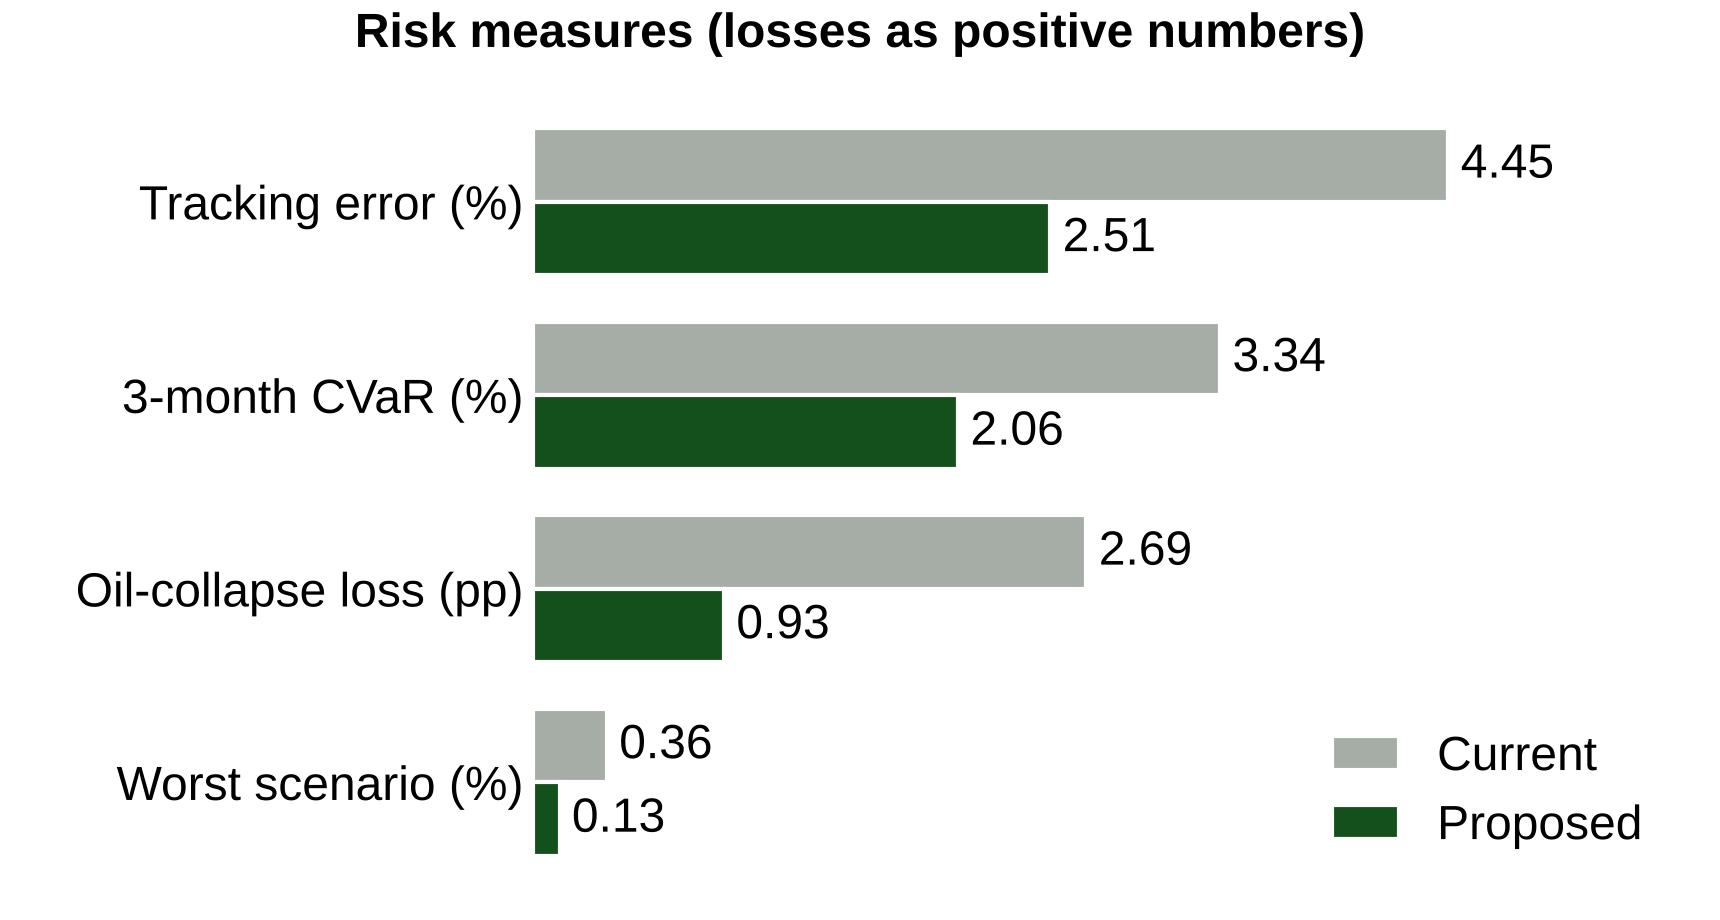
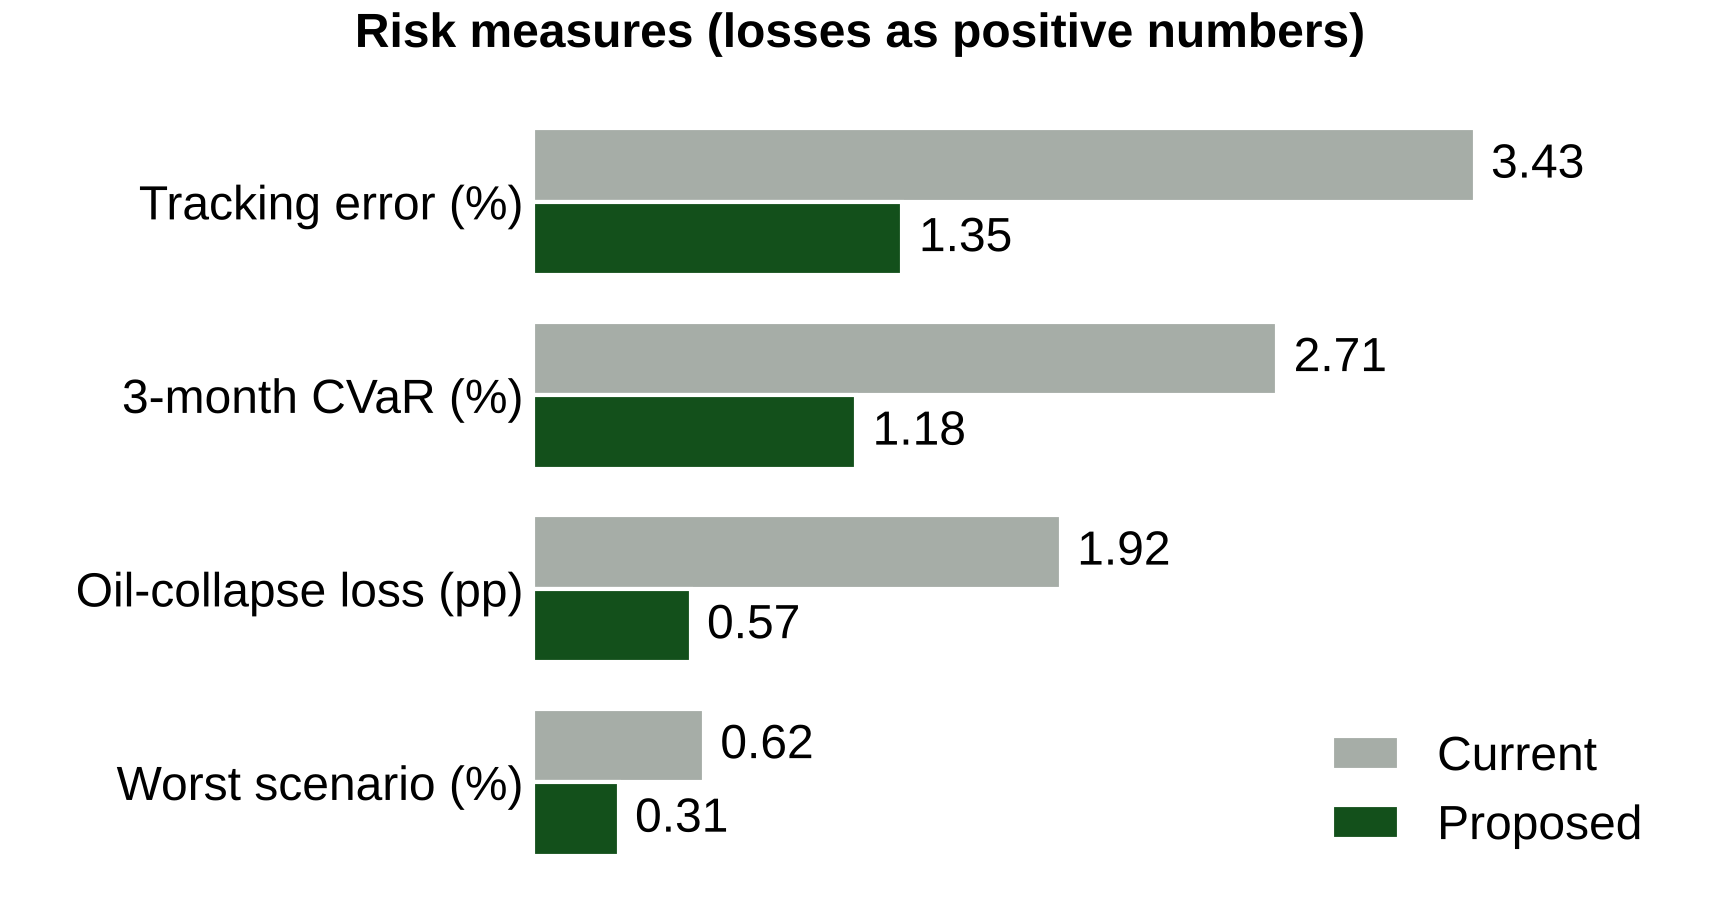
Team final weights vs S&P 500: evaluation module and deck charts
src/team_weights.py evaluates the team's final weights (5 Nov 2026, 60% equities / 40% fixed income)
against S&P 500 sector weights at the 4 Nov close: tracking error, CVaR, beta, sell-off payoff, scenario
payoffs, oil-collapse loss, Module 8 verdicts over 12 settings, and the Base-vs-Current checks (post hoc,
context only). deck_visuals.py draws the weights, risk and scenario charts from it and adds a
fixed-income mix chart.

Claude-Session: https://claude.ai/code/session_01XvrXAsh1HuWmDaJG6Ek6Ku

diff --git a/src/deck_visuals.py b/src/deck_visuals.py
@@ -14,6 +14,9 @@ installed), black text and axes, no gridlines, one text size. Every chart is siz
 same size as the slides' body text; titles are the same size in bold. Series colours: dark green #13501B,
 red #A82B0B, teal #104862, grey #A6ADA7.
 
+Portfolio weights are the team's final decision (5 Nov 2026), evaluated by src.team_weights against S&P 500
+sector weights at the 4 Nov close; equity weights are % of the 60% equity allocation.
+
 Conventions follow the models: DEF = XLP/XLU/XLV, GRW = VGT/XLY with XLK as the VGT proxy (the target
 series), legs equal-weighted, monthly total returns, month in progress dropped.
 """
@@ -90,9 +93,19 @@ def series(name):
     return pd.read_csv(RAW / f"{name}.csv", index_col=0, parse_dates=True).iloc[:, 0].dropna()
 
 
+# Team final weights (5 Nov 2026) vs S&P 500 sector weights (4 Nov), from `python -m src.team_weights`
+CUR, NEW = "Old (5 Nov)", "New (team)"
+FI_TYPES = {"Treasury and agency": ["VGIT", "AGZ"], "TIPS": ["IBID"], "Investment-grade corporate": ["IGSB", "VCSH"],
+            "Cash": ["Cash"]}
+
+
 def active_weights():
-    W = pd.read_csv(OUT / "weighting_weights.csv", index_col=0)
-    return W[["Current", "Base"]].sub(W["benchmark"], axis=0)
+    A = pd.read_csv(OUT / "team_weights_active.csv", index_col=0)
+    return A[[CUR, NEW]].rename(columns={CUR: "Current", NEW: "Base"})
+
+
+def team_metrics():
+    return pd.read_csv(OUT / "team_weights_metrics.csv", index_col=0)
 
 
 def hbar_labels(ax, y, vals, fmt=lambda v: pp(v), pad=0.25, **kw):
@@ -111,17 +124,17 @@ def date_axis(ax, months=(1, 7), fmt="%b %Y"):
 
 
 # ---- Proposal ----------------------------------------------------------------------------------------------
-def weights_active(w=820, h=708):
+def weights_active(w=700, h=708):
     A = active_weights().reindex(ORDER)
     fig, ax = figure(w, h)
     y = np.arange(len(A))[::-1]; hh = 0.38
     ax.barh(y + hh / 2, A["Current"], height=hh, color=GREY, edgecolor=BG, lw=1.5, label="Current")
     ax.barh(y - hh / 2, A["Base"], height=hh, color=GREEN, edgecolor=BG, lw=1.5, label="Proposed")
     ax.set_yticks(y, A.index); ax.axvline(0, color=INK, lw=1.2)
-    ax.set_xlim(-13.5, 8.5); ax.set_xlabel("Active weight vs IVV (pp)")
+    ax.set_xlim(-10.5, 6); ax.set_xlabel("Active weight vs S&P 500 (pp)")
     bars_frame(ax); ax.legend(loc="lower left")
-    title(fig, "Active weights: current vs proposed")
-    fig.subplots_adjust(left=0.1, right=0.97, bottom=0.1)
+    title(fig, "Equity active weights: current vs proposed")
+    fig.subplots_adjust(left=0.13, right=0.97, bottom=0.1)
     save(fig, "deck_weights_active.png")
     return A
 
@@ -159,17 +172,21 @@ def performance():
 
 
 def active_current():
-    A = active_weights()["Current"].reindex(ORDER)
+    A = active_weights()["Current"].rename({"CASH": "Cash"}).reindex(ORDER + ["Cash"])
+    A["Cash"] = np.floor(A["Cash"] * 10 + 1e-6) / 10      # 100 - 96.55: shown as 3.4 so it matches 96.6 + 3.4 = 100
     fig, ax = figure(1100, 708)
     y = np.arange(len(A))[::-1]
-    ax.barh(y, A.values, height=0.62, color=[GROUP_COLOR.get(t, GREY) for t in A.index], edgecolor=BG, lw=2)
+    cols = [GROUP_COLOR.get(t, GREY) for t in A.index]; cols[-1] = "#FFFFFF"
+    ax.barh(y, A.values, height=0.62, color=cols, edgecolor=[BG] * (len(A) - 1) + [INK], lw=2,
+            hatch=[None] * (len(A) - 1) + ["//"])
     hbar_labels(ax, y, A.values)
     ax.set_yticks(y, A.index); ax.axvline(0, color=INK, lw=1.2)
-    ax.set_xlim(-15, 9.5); ax.set_xlabel("Active weight vs IVV (pp)")
+    ax.set_xlim(-11.5, 7.5); ax.set_xlabel("Active weight vs S&P 500 (pp of the 60% equity allocation)")
     bars_frame(ax)
     handles = [plt.Rectangle((0, 0), 1, 1, color=c) for c in (RED, GREY, TEAL, GREEN)]
-    ax.legend(handles, ["Growth", "Other", "Inflation hedge", "Defensives"], loc="lower left")
-    title(fig, "Current active weights by ETF (31 Oct)")
+    handles.append(plt.Rectangle((0, 0), 1, 1, facecolor="#FFFFFF", edgecolor=INK, hatch="//"))
+    ax.legend(handles, ["Growth", "Other", "Inflation hedge", "Defensives", "Equities below 60%"], loc="lower left")
+    title(fig, "Current equity active weights by ETF (5 Nov)")
     fig.subplots_adjust(left=0.075, right=0.98, bottom=0.1)
     save(fig, "deck_active_current.png")
 
@@ -419,22 +436,22 @@ def valuation_revisions(w=700, h=708):
 def oil_collapse_loss(w=900, h=490):
     S = pd.read_csv(OUT / "energy_stress.csv", index_col=0)
     glut = S.loc[[i for i in S.index if i.startswith("Oil glut")][0], "XLE minus SPY (%)"] / 100
-    C = pd.read_csv(OUT / "consistency_summary.csv", index_col=0)
-    marks = [("Current", "Current (drifted)", GREY, (-0.15, -0.15, "right", "top")),
-             ("Team proposal", "Proposal", GREY, (0.15, 0.12, "left", "bottom")),
-             ("Full hedge", "Base (full hedge, post hoc)", GREY, (-0.15, -0.15, "right", "top")),
-             ("Recommended", "Base (half hedge)", GREEN, (-0.2, -0.17, "right", "top"))]
-    marks = [(lab, C.loc[k, "xle_active"], C.loc[k, "oil_crash_tail_pp"], c, pos) for lab, k, c, pos in marks]
-    x = np.linspace(0, 7.5, 100)
+    M, A = team_metrics(), pd.read_csv(OUT / "team_weights_active.csv", index_col=0)
+    marks = [("Current", CUR, GREY, (-0.12, -0.12, "right", "top")),
+             ("Model Base", "Model Base", GREY, (-0.15, -0.1, "right", "top")),
+             ("Full hedge", "New, full hedge", GREY, (-0.15, -0.12, "right", "top")),
+             ("Proposed", NEW, GREEN, (0.15, 0.1, "left", "bottom"))]
+    marks = [(lab, A.loc["XLE", k], M.loc[k, "oil_loss"], c, pos) for lab, k, c, pos in marks]
+    x = np.linspace(0, 6, 100)
     fig, ax = figure(w, h)
     ax.axhspan(-1, 0, color=LIGHT, alpha=0.25, lw=0)
     ax.plot(x, glut * x, color=INK, lw=2)
     ax.axhline(-1, color=RED, lw=2, ls=(0, (5, 3)))
-    ax.text(7.45, -0.9, "Limit −1pp", color=INK, fontsize=FS, ha="right", va="bottom", **BOLD)
+    ax.text(5.95, -0.9, "Limit −1pp", color=INK, fontsize=FS, ha="right", va="bottom", **BOLD)
     for lab, wv, y, c, (dx, dy, ha, va) in marks:
         ax.plot(wv, y, "o", ms=11, color=c, mec=INK if c == GREY else BG, mew=1.5 if c == GREY else 2, zorder=3)
-        ax.text(wv + dx, y + dy, lab, fontsize=FS, ha=ha, va=va, **(BOLD if lab == "Recommended" else {}))
-    ax.set_xlim(0, 7.5); ax.set_ylim(-3.6, 0.3)
+        ax.text(wv + dx, y + dy, lab, fontsize=FS, ha=ha, va=va, **(BOLD if lab == "Proposed" else {}))
+    ax.set_xlim(0, 6); ax.set_ylim(-2.6, 0.3)
     ax.set_xlabel("XLE active weight (pp)"); ax.set_ylabel("Loss (pp)")
     title(fig, "Loss in a 2014–16 oil collapse, by XLE weight")
     fig.subplots_adjust(left=0.1, right=0.98, bottom=0.15)
@@ -444,13 +461,12 @@ def oil_collapse_loss(w=900, h=490):
 
 # ---- Risks -------------------------------------------------------------------------------------------------
 def risk_metrics(w=860, h=460):
-    M = pd.read_csv(OUT / "weighting_metrics.csv", index_col=0)
-    C = pd.read_csv(OUT / "consistency_summary.csv", index_col=0)
-    P = pd.read_csv(OUT / "consistency_scenario_payoffs.csv", index_col=0)
-    rows = [("Tracking error (%)", M.loc["Current", "te_bench"], M.loc["Base", "te_bench"]),
-            ("3-month CVaR (%)", M.loc["Current", "cvar3"], M.loc["Base", "cvar3"]),
-            ("Oil-collapse loss (pp)", -C.loc["Current (drifted)", "oil_crash_tail_pp"], -C.loc["Base (half hedge)", "oil_crash_tail_pp"]),
-            ("Worst scenario (%)", -P["Current (drifted)"].min(), -P["Base (half hedge)"].min())]
+    M = team_metrics()
+    worst = lambda k: -M.loc[k, [c for c in M.columns if c.startswith("scen_")]].min()
+    rows = [("Tracking error (%)", M.loc[CUR, "te_bench"], M.loc[NEW, "te_bench"]),
+            ("3-month CVaR (%)", M.loc[CUR, "cvar3"], M.loc[NEW, "cvar3"]),
+            ("Oil-collapse loss (pp)", -M.loc[CUR, "oil_loss"], -M.loc[NEW, "oil_loss"]),
+            ("Worst scenario (%)", worst(CUR), worst(NEW))]
     fig, ax = figure(w, h)
     y = np.arange(len(rows))[::-1]; hh = 0.38
     cur = [r[1] for r in rows]; new = [r[2] for r in rows]
@@ -460,7 +476,7 @@ def risk_metrics(w=860, h=460):
         for yi, v in zip(yy, vals):
             ax.text(v + 0.06, yi, f"{v:.2f}", va="center", fontsize=FS)
     ax.set_yticks(y, [r[0] for r in rows])
-    ax.set_xlim(0, 5.6); ax.set_xticks([])
+    ax.set_xlim(0, 4.2); ax.set_xticks([])
     ax.spines["bottom"].set_visible(False); bars_frame(ax)
     ax.legend(loc="lower right")
     title(fig, "Risk measures (losses as positive numbers)")
@@ -470,7 +486,8 @@ def risk_metrics(w=860, h=460):
 
 
 def scenario_returns(w=700, h=708):
-    P = pd.read_csv(OUT / "consistency_scenario_payoffs.csv", index_col=0)[["Current (drifted)", "Base (half hedge)"]]
+    M = team_metrics()
+    P = M[[c for c in M.columns if c.startswith("scen_")]].T.rename(index=lambda c: c[5:])[[CUR, NEW]]
     names = {"Stagflationary sell-off": "Stagflation\nsell-off", "Real-yield squeeze": "Real-yield\nsqueeze",
              "Growth scare": "Growth\nscare", "Inflation scare": "Inflation\nscare", "Easing rally": "Easing\nrally",
              "Steady state": "Steady\nstate"}
@@ -481,13 +498,33 @@ def scenario_returns(w=700, h=708):
     for yy, c in ((y + hh / 2, 0), (y - hh / 2, 1)):
         hbar_labels(ax, yy, P.iloc[:, c].values, fmt=lambda v: pp(v, 2), pad=0.04)
     ax.set_yticks(y, [names.get(s, s) for s in P.index]); ax.axvline(0, color=INK, lw=1.2)
-    ax.set_xlim(-0.9, 1.75); ax.set_xticks([-0.5, 0, 0.5, 1.0, 1.5])
-    ax.set_xlabel("Active return vs SPY, 3 months (%)")
+    ax.set_xlim(-1.2, 1.85); ax.set_xticks([-0.5, 0, 0.5, 1.0, 1.5])
+    ax.set_xlabel("Active return vs S&P 500, 3 months (%)")
     bars_frame(ax); ax.legend(loc="lower right")
     title(fig, "Average 3-month return by scenario")
     fig.subplots_adjust(left=0.22, right=0.97, bottom=0.1)
     save(fig, "deck_scenario_returns.png")
     return P
+
+
+def fixed_income_mix(w=700, h=440):
+    from src.team_weights import TEAM
+    T = pd.DataFrame({k: TEAM.loc[v].sum() for k, v in FI_TYPES.items()}).T[["old", "new"]]
+    fig, ax = figure(w, h)
+    y = np.arange(len(T))[::-1]; hh = 0.38
+    ax.barh(y + hh / 2, T["old"], height=hh, color=GREY, edgecolor=BG, lw=1.5, label="Current")
+    ax.barh(y - hh / 2, T["new"], height=hh, color=GREEN, edgecolor=BG, lw=1.5, label="Proposed")
+    for yy, c in ((y + hh / 2, "old"), (y - hh / 2, "new")):
+        for yi, v in zip(yy, T[c]):
+            ax.text(v + 0.3, yi, f"{v:.1f}", va="center", fontsize=FS)
+    ax.set_yticks(y, ["Treasury\nand agency", "TIPS", "IG\ncorporate", "Cash"])
+    ax.set_xlim(0, 27); ax.set_xticks([])
+    ax.spines["bottom"].set_visible(False); bars_frame(ax)
+    ax.legend(loc="lower right")
+    title(fig, "Fixed income by type (% of portfolio)")
+    fig.subplots_adjust(left=0.2, right=0.98, bottom=0.03)
+    save(fig, "deck_fixed_income_mix.png")
+    return T
 
 
 def trigger_readings(w=700, h=708):
@@ -527,7 +564,7 @@ def main():
     ff, t2, gap = fed_expected(); last, s1, s2 = curve(); ry = real_yields()
     w = wti(); prem, med = pe_premium(); s, oct_ = def_minus_grw()
     decomposition(); valuation_revisions(); glut, marks = oil_collapse_loss()
-    rows = risk_metrics(); scenario_returns(); trigger_readings()
+    rows = risk_metrics(); scenario_returns(); trigger_readings(); fixed_income_mix()
     print("\nNumbers drawn (check against the deck):")
     print("  Performance Jun–Oct (%): " + ", ".join(f"{k} {v:+.2f}" for k, v in C.iloc[-1].items()))
     print("  Active return by group vs sector benchmark (pp): " + ", ".join(f"{k} {v:+.2f}" for k, v in groups.items()))

diff --git a/src/team_weights.py b/src/team_weights.py
@@ -1,0 +1,201 @@
+"""Team final weights (decided 5 Nov 2026) evaluated against today's S&P 500 sector weights.
+
+Run:
+    python -m src.team_weights
+
+POST HOC: the team set these weights after seeing the engine's Base result. They follow the direction of Base
+(smaller growth underweight, smaller energy overweight) with team modifications. This module reports the same
+risk measures and the same five Base-vs-Current checks for context; it is not a pre-registered verdict.
+
+Conventions
+- Portfolio: 60% equities, 40% fixed income and cash. Equity weights = portfolio weight x 100/60.
+- The November ("old") equity sleeve was 57.93% of the portfolio, so its equity weights sum to 96.55%. The
+  2.07pp of the portfolio held outside equities relative to the 60% allocation is treated as cash (zero return)
+  in the equity-sleeve measures, so the measures match the weights shown on the slides.
+- Benchmark: S&P 500 GICS sector weights at the 4 Nov 2026 close (ChartRow estimate from SPY holdings,
+  normalized from 100.3% to 100%), mapped to the eleven sector ETFs.
+"""
+import numpy as np
+import pandas as pd
+import statsmodels.api as sm
+from pathlib import Path
+
+from src.portfolio import etf_returns, etf_sensitivities, HOLDINGS, load_portfolio
+from src.policy import build_state
+from src.scenarios import build, summarize, verdict, SCEN, SETS, H
+from src.consistency import M8_SPECS
+from src.energy import stress
+from src import weighting as wg
+
+OUT = Path("outputs")
+EQ = 100 / 60
+CASH = "CASH"
+
+# % of the $100M portfolio (team decision, 5 Nov 2026)
+TEAM = pd.DataFrame({
+    "old": {"VGT": 16.47, "XLV": 6.59, "XLC": 4.48, "XLF": 6.12, "XLP": 6.08, "XLY": 3.70, "XLB": 3.70, "XLI": 3.24,
+            "XLE": 4.99, "SCHH": 1.14, "XLU": 1.42, "IGSB": 3.00, "IBID": 9.00, "AGZ": 9.00, "VGIT": 13.50,
+            "Cash": 4.57, "VCSH": 3.00},
+    "new": {"VGT": 19.50, "XLV": 7.00, "XLC": 5.50, "XLF": 6.00, "XLP": 4.00, "XLY": 5.00, "XLB": 2.00, "XLI": 4.00,
+            "XLE": 3.00, "SCHH": 2.50, "XLU": 1.50, "IGSB": 14.36, "IBID": 6.76, "AGZ": 8.09, "VGIT": 6.79,
+            "Cash": 4.00, "VCSH": 0.00}})
+FI = ["IGSB", "IBID", "AGZ", "VGIT", "VCSH", "Cash"]
+
+# S&P 500 sector weights, 4 Nov 2026 close (ChartRow, SPY holdings), by ETF proxy
+SP500_RAW = {"VGT": 36.9, "XLF": 12.6, "XLV": 10.3, "XLY": 9.7, "XLC": 8.5, "XLI": 8.2, "XLP": 4.9, "XLE": 3.6,
+             "XLU": 2.1, "SCHH": 1.8, "XLB": 1.7}
+
+
+def benchmark():
+    b = pd.Series(SP500_RAW).reindex(HOLDINGS)
+    b = (b / b.sum() * 100).round(2)
+    b["VGT"] += round(100 - b.sum(), 2)
+    return b
+
+
+def equity(col):
+    w = (TEAM.loc[HOLDINGS, col] * EQ)
+    return pd.concat([w, pd.Series({CASH: 100 - w.sum()})])
+
+
+# ------------------------------------------------------------------ returns with a cash leg
+def frame(R):
+    X = R[HOLDINGS].copy()
+    X["XLC"] = X["XLC"].fillna(R["SPY"])
+    X = X.where(R[[h for h in HOLDINGS if h != "XLC"]].notna().all(axis=1))
+    X[CASH] = 0.0
+    return X
+
+
+def port(X, w):
+    return (X[w.index] * (w / 100)).sum(axis=1, min_count=1).where(X[HOLDINGS].notna().all(axis=1))
+
+
+def fwd(x):
+    return ((1 + x / 100).rolling(H).apply(np.prod, raw=True) - 1).shift(-H) * 100
+
+
+def spy_sens(R, S):
+    dX = S[["real10y", "breakeven10y"]].diff()
+    row = {"beta": 0.0}
+    for tag, start, drop22 in [("full", "2003-02-28", False), ("post", "2020-01-01", False), ("ex22", "2020-01-01", True)]:
+        dd = pd.concat([R["SPY"].rename("y"), dX], axis=1, sort=True).loc[start:].dropna()
+        if drop22:
+            dd = dd.drop(dd.loc["2022"].index)
+        res = sm.OLS(dd["y"].values, sm.add_constant(dd[["real10y", "breakeven10y"]].values)).fit()
+        row[f"real_{tag}"], row[f"be_{tag}"] = -res.params[1], -res.params[2]   # cash minus SPY
+    return pd.Series(row, name=CASH)
+
+
+def payoffs_cash(X, R, W, lab, Wts, sens, tag):
+    """Module 8 payoffs vs SPY (scenarios.payoffs) for weight vectors that may include a cash leg."""
+    med = W.groupby(lab)[["d_real", "d_be", "spy"]].median().reindex(SCEN)
+    emp, mod, neg = {}, {}, {}
+    for name, w in Wts.items():
+        a = (fwd(port(X, w)) - fwd(R["SPY"])).reindex(W.index)
+        emp[name] = a.groupby(lab).mean().reindex(SCEN)
+        neg[name] = (a < 0).groupby(lab).mean().reindex(SCEN)
+        x = w / 100
+        s = sens.reindex(w.index)
+        mod[name] = pd.Series({k: float((x * (s[f"real_{tag}"] * med.loc[k, "d_real"] / 100
+                                           + s[f"be_{tag}"] * med.loc[k, "d_be"] / 100
+                                           + (s["beta"] - 1) * med.loc[k, "spy"])).sum()) for k in SCEN})
+    return pd.DataFrame(emp), pd.DataFrame(mod), pd.DataFrame(neg)
+
+
+# ------------------------------------------------------------------ metrics
+def metrics(name, w, b, X, R, C, sens, sc):
+    bb = pd.concat([b, pd.Series({CASH: 0.0})])
+    x = w.reindex(bb.index).fillna(0) - bb
+    last = R.index[-wg.WINDOW:]
+    p = port(X, w)
+    beta = float(np.polyfit(R["SPY"].loc[last], p.loc[last], 1)[0])
+    act = (p - port(X, bb)).dropna()
+    a3 = act.rolling(3).sum().dropna()
+    var3 = -np.percentile(a3, 5)
+    cvar3 = -a3[a3 <= -var3].mean()
+    xv = (x / 100).reindex(C.index).values
+    tev = float(np.sqrt(12 * xv @ C.values @ xv))
+    rc = pd.Series(xv * (C.values @ xv) / (xv @ C.values @ xv) * 100, index=C.index)
+    Wn, lab, P = sc["W"], sc["lab"], sc["P"]
+    pay = (fwd(p) - fwd(port(X, bb))).reindex(Wn.index)
+    by = pay.groupby(lab).mean().reindex(SCEN).fillna(0)
+    ev = {f"exp_{k.split()[0]}": float(P[k] @ by) for k in SETS}
+    s = sens.reindex(x.index)
+    st, _, _ = stress(R, float(x["XLE"]))
+    m = dict(portfolio=name, te_bench=tev, beta=beta, cvar3=cvar3,
+             be_25bp=float((x / 100 * s["be_full"] / 4).sum()),
+             selloff_3m=float(pay[lab.isin(SCEN[:2])].mean()), **ev,
+             oil_loss=float(st["cost of today's overweight (pp)"].min()), gross_active=float(x.abs().sum() / 2),
+             **{f"scen_{k}": float(by[k]) for k in SCEN})
+    m.update({f"risk_{g}": float(rc[c].sum()) for g, c in wg.GROUPS.items()})
+    m.update({f"act_{g}": float(x[c].sum()) for g, c in wg.GROUPS.items()})
+    m["act_Cash"] = float(x[CASH])
+    return m, x
+
+
+def main():
+    pd.set_option("display.width", 250); pd.set_option("display.max_columns", 40)
+    R = etf_returns(); S = build_state(); sens = etf_sensitivities(R, S)
+    sens = pd.concat([sens, spy_sens(R, S).to_frame().T])
+    X = frame(R)
+    Cm = X[HOLDINGS + [CASH]].loc[R.index[-wg.WINDOW:]].cov()
+    b = benchmark()
+    sc = build()
+    base = pd.read_csv(OUT / "weighting_weights.csv", index_col=0)["Base"].reindex(HOLDINGS)
+    Wt = {"Old (5 Nov)": equity("old"), "New (team)": equity("new"),
+          "Model Base": pd.concat([base, pd.Series({CASH: 0.0})])}
+
+    # full hedge for the team weights: add the engine's inflation unit bet until breakeven beta is zero
+    v2 = wg.unit_bet(b, long=wg.INF)
+    xn = Wt["New (team)"].reindex(HOLDINGS) - b
+    h = -wg.be_beta(xn, sens.loc[HOLDINGS]) / wg.be_beta(v2, sens.loc[HOLDINGS])
+    full = (b + xn + h * v2).round(2)
+    Wt["New, full hedge"] = pd.concat([full, pd.Series({CASH: 0.0})])
+
+    rows, A = [], {}
+    for n, w in Wt.items():
+        m, x = metrics(n, w, b, X, R, Cm, sens, sc)
+        rows.append(m); A[n] = x
+    M = pd.DataFrame(rows).set_index("portfolio")
+    A = pd.DataFrame(A)
+
+    print("Benchmark (S&P 500 sector weights, 4 Nov 2026):\n", b.to_string())
+    print("\nEquity weights (% of equities):\n", pd.DataFrame(Wt).round(2).assign(bench=b).to_string())
+    print("\nActive weights vs S&P 500 (pp of equities):\n", A.round(2).to_string())
+    print(f"\nFull hedge for the team weights: inflation unit bet x {h:.2f}")
+    print("\nMetrics:\n", M.round(3).T.to_string())
+
+    o, n = M.loc["Old (5 Nov)"], M.loc["New (team)"]
+    checks = pd.DataFrame([
+        ("1 TE vs benchmark below Old", f"{n['te_bench']:.2f}% vs {o['te_bench']:.2f}%", n["te_bench"] < o["te_bench"]),
+        ("2 Sell-off payoff >= 75% of Old", f"{n['selloff_3m']:+.2f}% vs {o['selloff_3m']:+.2f}%", n["selloff_3m"] >= 0.75 * o["selloff_3m"]),
+        ("3 |breakeven beta| below Old", f"{n['be_25bp']:+.3f} vs {o['be_25bp']:+.3f}", abs(n["be_25bp"]) < abs(o["be_25bp"])),
+        ("4 Expected (set A) within 0.10pp of Old", f"{n['exp_A']:+.3f} vs {o['exp_A']:+.3f}", n["exp_A"] >= o["exp_A"] - 0.10)],
+        columns=["check", "value", "pass"])
+    print("\nBase-vs-Current checks applied to New vs Old (context, post hoc):\n", checks.to_string(index=False))
+
+    # Module 8 decision rule vs Old, 12 settings
+    sens_x = sens
+    res = {k: [] for k in Wt if k != "Old (5 Nov)"}
+    wins = {k: [] for k in res}
+    for prm in M8_SPECS:
+        bb = build(prm)
+        E, Mm, NEG = payoffs_cash(X, R, bb["W"], bb["lab"], Wt, sens_x, bb["p"]["model_tag"])
+        T = summarize(bb["P"], E, Mm, NEG)
+        for k in res:
+            v, wn, _ = verdict(T, k, ref="Old (5 Nov)")
+            res[k].append(v); wins[k].append(wn)
+    print("\nModule 8 decision rule vs Old (12 settings):")
+    for k in res:
+        print(f"   {k:20s} {pd.Series(res[k]).value_counts().to_dict()}  wins/6 by setting {wins[k]}")
+
+    pd.DataFrame(Wt).round(3).assign(benchmark=b).to_csv(OUT / "team_weights_equity.csv")
+    A.round(3).to_csv(OUT / "team_weights_active.csv")
+    M.round(4).to_csv(OUT / "team_weights_metrics.csv")
+    checks.to_csv(OUT / "team_weights_checks.csv", index=False)
+    pd.DataFrame({k: pd.Series(v).value_counts() for k, v in res.items()}).fillna(0).astype(int).to_csv(OUT / "team_weights_m8.csv")
+
+
+if __name__ == "__main__":
+    main()
